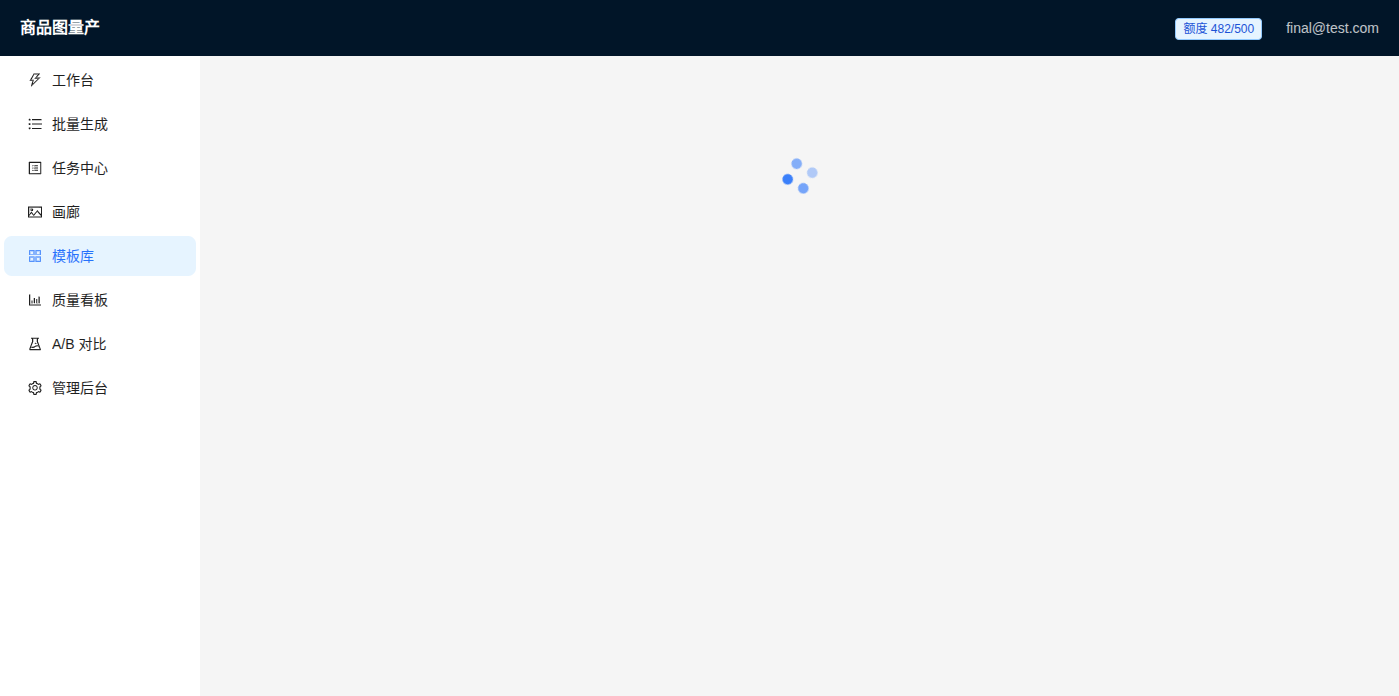
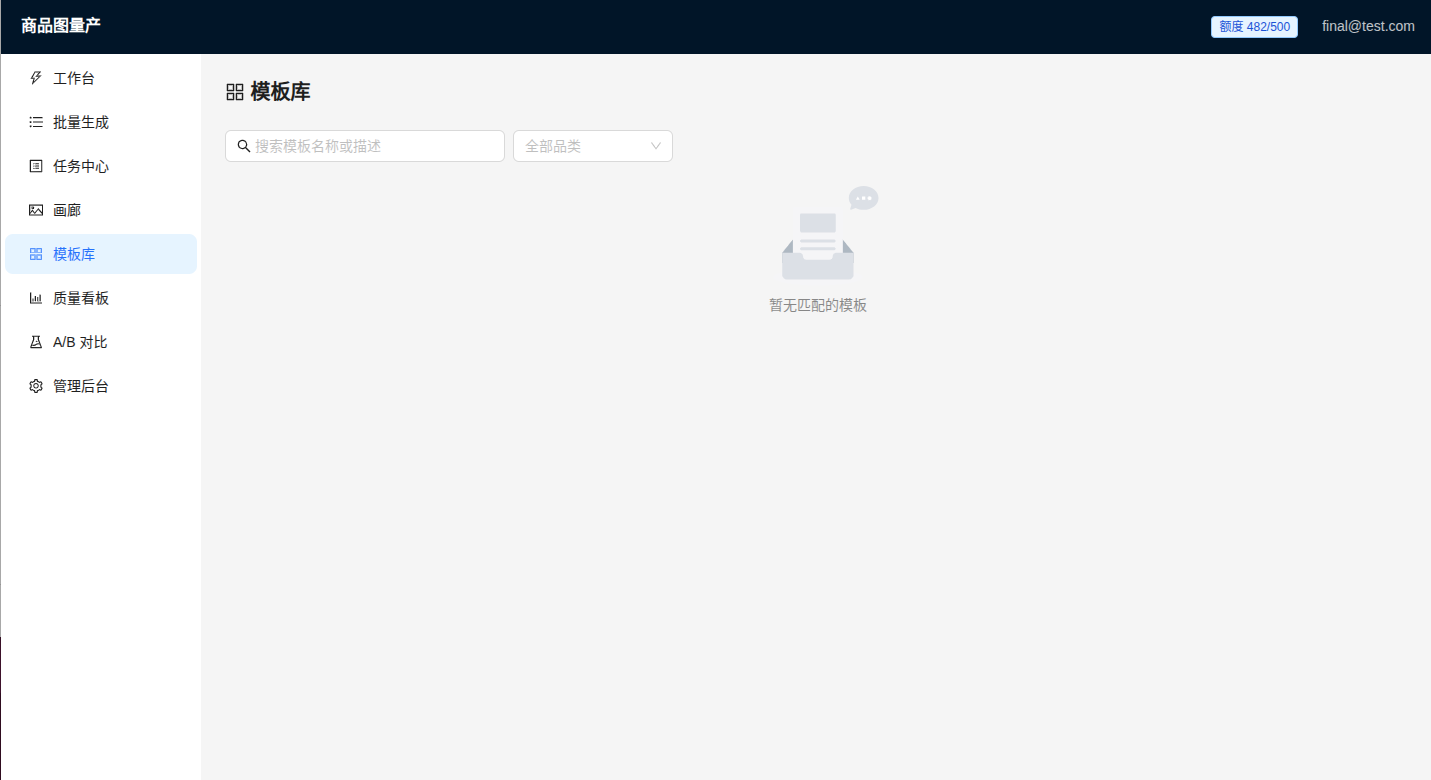
feat: README 工作流状态同步到 registry，截图已重渲染

diff --git a/README.md b/README.md
@@ -8,7 +8,7 @@
 [![Python](https://img.shields.io/badge/Python-3.10%2B-blue)](https://www.python.org/)
 [![ComfyUI](https://img.shields.io/badge/Engine-ComfyUI-orange)](https://github.com/comfyanonymous/ComfyUI)
 
-**当前状态**：🚧 V1 开发中（2026-09-14 启动，目标 2026-11-22 发布）
+**当前状态**：🚧 V1 W2 开发中（2026-09-14 启动，目标 2026-11-22 发布）
 
 ---
 
@@ -32,16 +32,20 @@
 
 | 能力 | 状态 | 说明 |
 |---|---|---|
-| 文生图 | 🚧 | 底模 + 采样器 + 高清分支 |
-| 图生图 | 🚧 | 重绘幅度策略 |
-| 高清修复 | 🚧 | 放大 + tile 分块 + 细节重绘 |
-| 局部重绘 | 🚧 | mask 输入 → inpaint / BrushNet |
-| 风格迁移 | 🚧 | IP-Adapter + LoRA + 风格模板 |
-| 批量出图 | 🚧 | 参数矩阵 / CSV 驱动 / 断点续跑 |
+| 文生图（SDXL / FLUX.2 klein） | ✅ | 底模 + 采样器 + 高清分支（**已上线**） |
+| 图生图 | 🔒 | 重绘幅度策略（**GPU 技术验证通过，待 P8 画质评审放行**） |
+| 高清修复 | 🔒 | 放大 + tile 分块 + 细节重绘（**GPU 技术验证通过，待 P8 画质评审放行**） |
+| 局部重绘 | 🔒 | mask 输入 → inpaint / BrushNet（**GPU 技术验证通过，待 P8 画质评审放行**） |
+| 风格迁移 | 🔒 | IP-Adapter + LoRA + 风格模板（**按 [ADR-008](./docs/adr/0008-v1-scope-reduction.md) 顺延 V2**） |
+| 批量出图 | ✅ | 参数矩阵 / CSV 驱动 / 断点续跑 |
+
+> 当前 2 条上线（`t2i_v1`、`flux2_klein_t2i_v1`），3 条 GPU 实测已通但暂不上线（`i2i_v1`、`inpaint_v1`、`upscale_v1`）。详见 [`workflows/registry.yaml`](./workflows/registry.yaml)。
 
 ### 控制体系
 
 ControlNet（canny / depth / lineart / softedge / normal / openpose）· IP-Adapter · LoRA（多权重叠加）· SAM/SAM2 自动分割遮罩 · DWPose 姿态 · 景深/法线/线稿联合控制
+
+**实测可叠加**：canny+IPA 双锚锁材质、union CN 多条件联合。细节见 [`docs/sop/control_matrix.md`](./docs/sop/control_matrix.md)。
 
 ### 平台层
 
